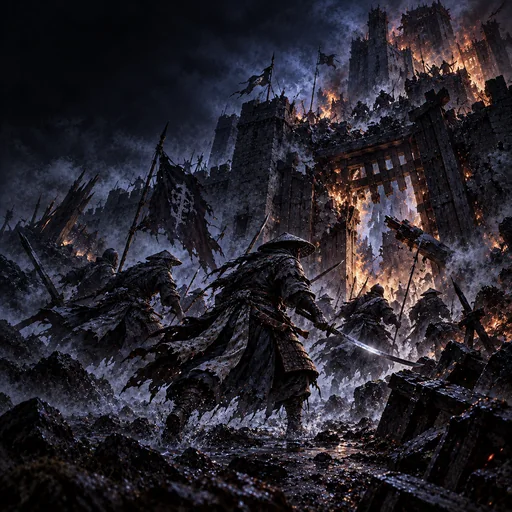
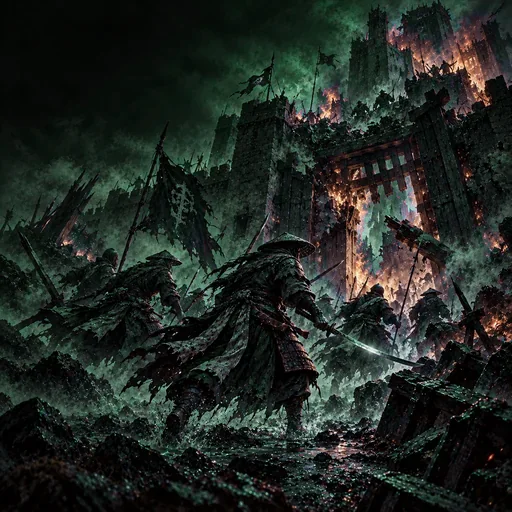
Mantis deck turns emerald green instead of blue
Too many decks were blue. The Mantis (hunding) card art and emblem have their
blue and violet tones rotated to emerald in OKLCH (lightness kept, other
colours untouched), and the patron palette follows.

Claude-Session: https://claude.ai/code/session_01KHJZmHVJYFz7SWHwTShr5F

diff --git a/src/engine/cards.ts b/src/engine/cards.ts
@@ -81,7 +81,7 @@ export const PATRONS: Record<PatronId, PatronDef> = {
     name: 'Богомол',
     title: 'Клинок поёт лишь в верной руке',
     locked: true,
-    palette: { bg1: '#070812', bg2: '#1a1e3e', accent: '#4a5aa8', glow: '#9ab4ff' },
+    palette: { bg1: '#040c08', bg2: '#0f2e21', accent: '#1f7f52', glow: '#7ef0b8' },
   },
   druid: {
     id: 'druid',
